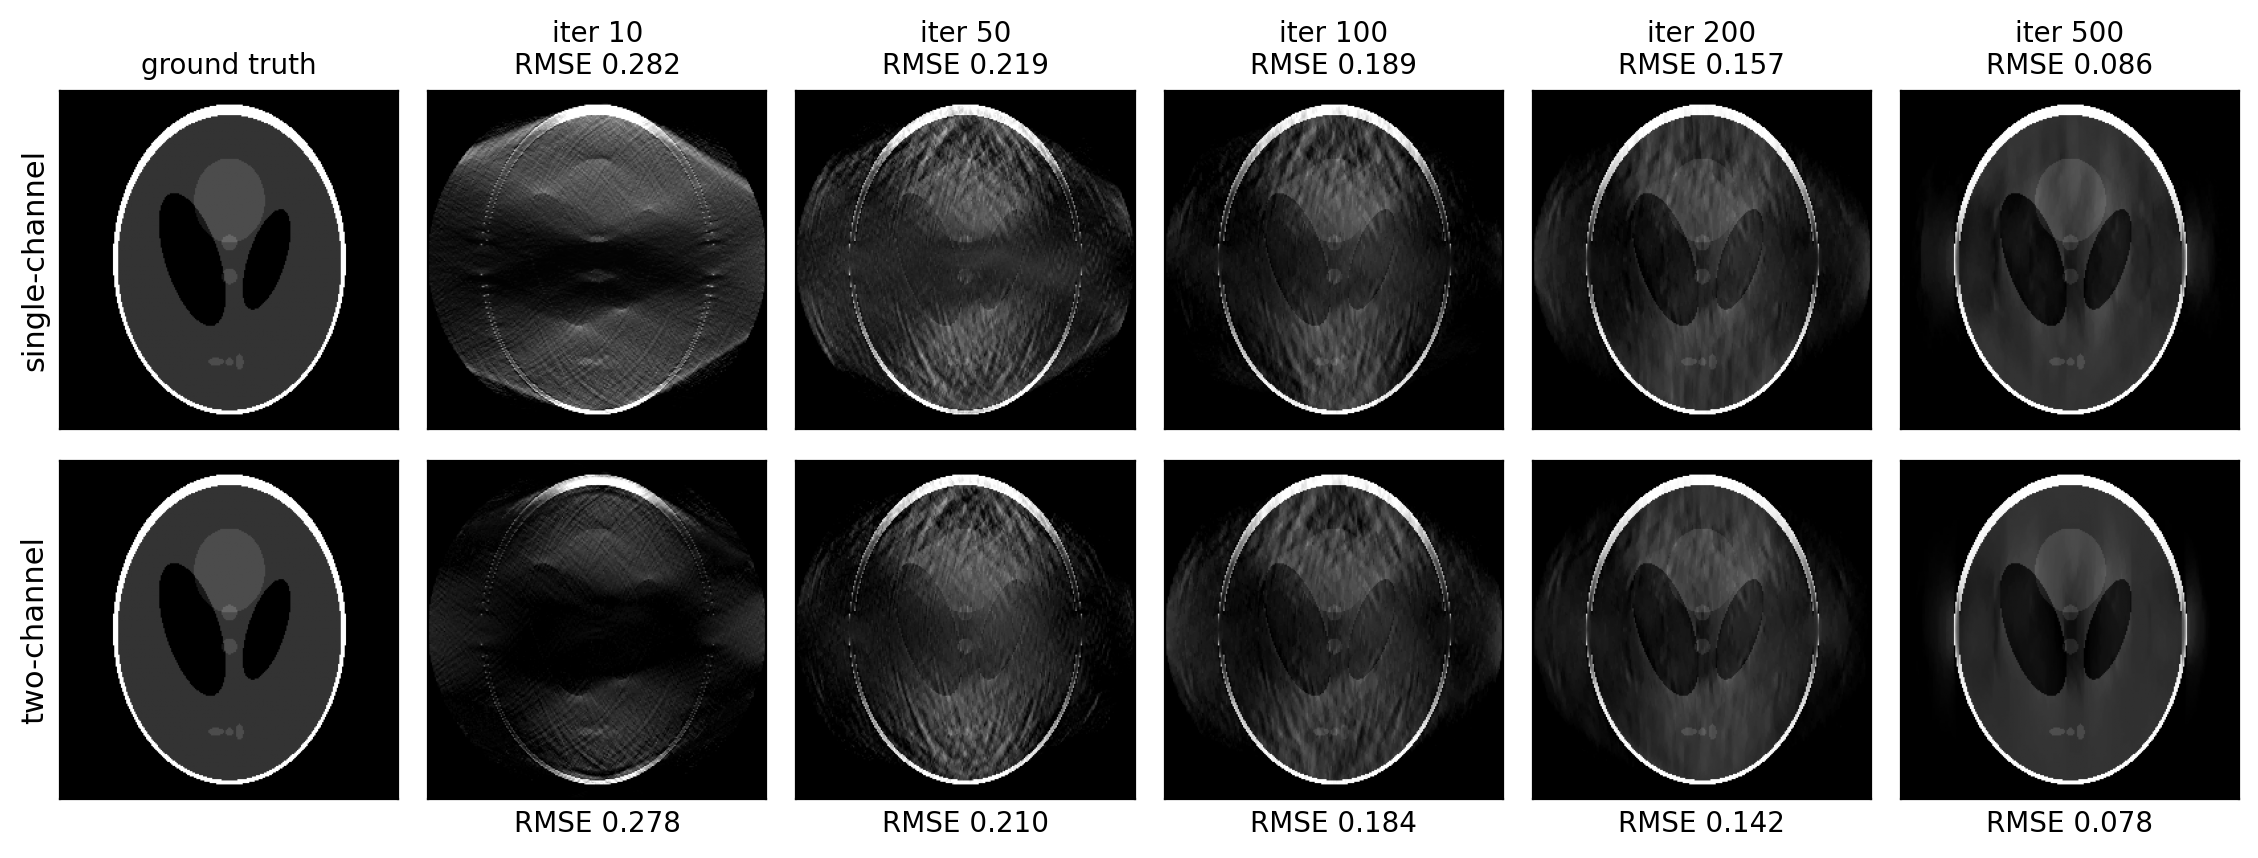
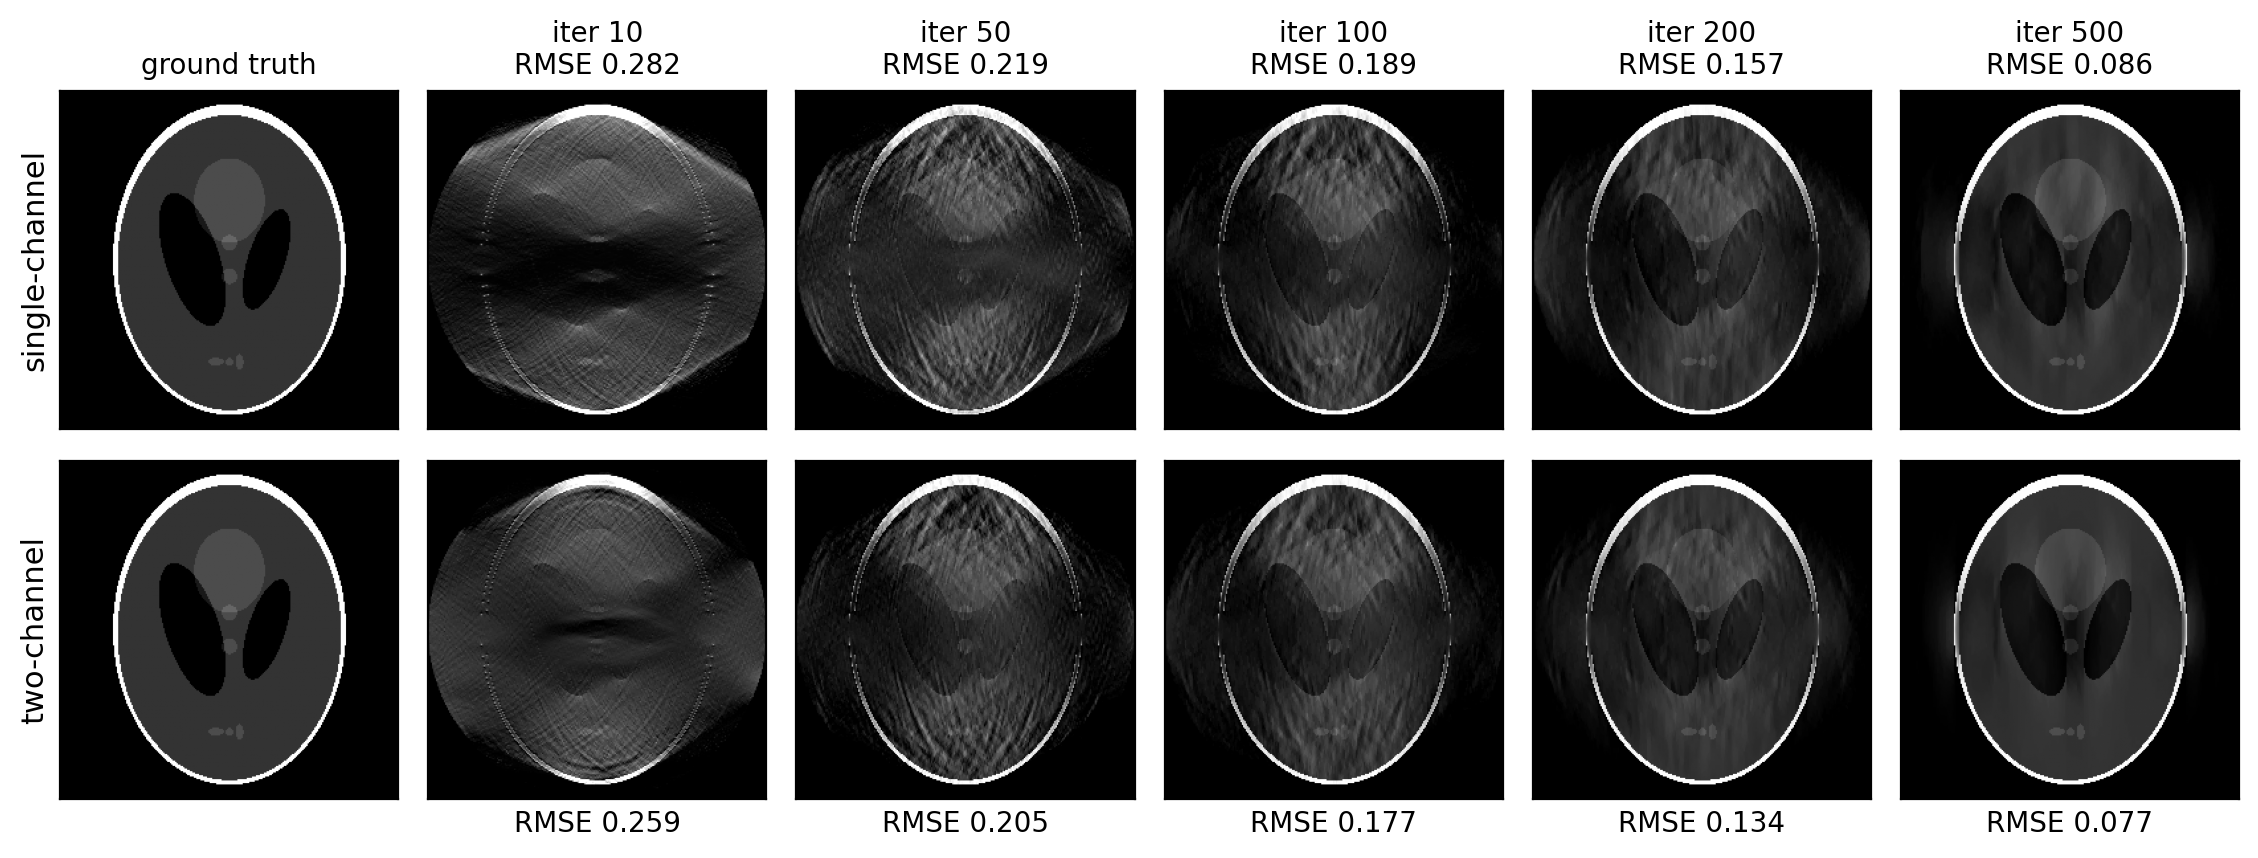
updated sl results

diff --git a/scripts/presentation_shepp_logan_3d.py b/scripts/presentation_shepp_logan_3d.py
@@ -60,8 +60,18 @@ ODD_CM  = 5.0
 ITERMAX        = 500
 SNAPSHOT_ITERS = [10, 50, 100, 200, 300, 500]
 LADDER_ITERS   = [10, 50, 100, 200, 500]
+TAG            = ""   # output filename suffix (e.g. "_arc50")
 
-CP_OVERRIDES = {"cutoffparm_lo": 3.0, "eps_lo_ratio": 0.5}
+# Two-channel config tuned for Shepp-Logan: symmetric dual steps with the
+# 3D stability handicap removed (sigma_lo_scale=1 -> norm_inflate_3d=1), so
+# two-channel gets the same primal step as single. eps_hi == single's eps.
+CP_OVERRIDES = {
+    "cutoffparm_lo":   4.0,
+    "eps_hi_ratio":    1.0,
+    "eps_lo_ratio":    1.0,
+    "sigma_lo_scale":  1.0,
+    "norm_inflate_3d": 1.0,
+}
 
 PETRI_RADIUS_CM = 9.5
 
@@ -350,7 +360,7 @@ def run():
         a = is_[it - 1]; b = it_[it - 1]
         print(f"  {it:5d}  {a:9.5f}  {b:9.5f}  {(a-b)/a*100:+7.2f}")
 
-    out_pkl = CACHE_DIR / "shepp_logan_3d_recon.pkl"
+    out_pkl = CACHE_DIR / f"shepp_logan_3d{TAG}_recon.pkl"
     with open(out_pkl, "wb") as f:
         pickle.dump({
             "phantom":          phantom,
@@ -363,27 +373,42 @@ def run():
         }, f)
     print(f"  cached {out_pkl.name}")
 
-    fig_phantom_intro(phantom, FIG_DIR / "shepp_logan_3d_phantom_intro.png")
+    fig_phantom_intro(phantom, FIG_DIR / f"shepp_logan_3d{TAG}_phantom_intro.png")
     fig_iter_ladder(phantom, snaps_s, snaps_t, LADDER_ITERS,
-                    FIG_DIR / "shepp_logan_3d_iter_ladder.png")
+                    FIG_DIR / f"shepp_logan_3d{TAG}_iter_ladder.png")
     fig_error_ladder(phantom, snaps_s, snaps_t, LADDER_ITERS,
-                     FIG_DIR / "shepp_logan_3d_error_ladder.png")
-    fig_convergence(is_, it_, FIG_DIR / "shepp_logan_3d_convergence.png",
-                    f"3D Shepp-Logan -- DBT arc=15, 25v, 432^2x96, "
-                    f"cutLo=3 eps_lo=0.5 itermax={ITERMAX}")
+                     FIG_DIR / f"shepp_logan_3d{TAG}_error_ladder.png")
+    fig_convergence(is_, it_, FIG_DIR / f"shepp_logan_3d{TAG}_convergence.png")
 
 
 def main():
+    global ARC_DEG, ITERMAX, SNAPSHOT_ITERS, LADDER_ITERS, TAG
     ap = argparse.ArgumentParser()
     ap.add_argument("--preview", action="store_true",
                     help="Build phantom and save intro fig only (no recon)")
+    ap.add_argument("--arc", type=float, default=ARC_DEG)
+    ap.add_argument("--itermax", type=int, default=ITERMAX)
+    ap.add_argument("--snaps", type=str, default=None,
+                    help="comma-separated checkpoint iters, e.g. 25,50,75,100")
+    ap.add_argument("--tag", type=str, default="",
+                    help="output filename suffix, e.g. _arc50")
     args = ap.parse_args()
+
+    ARC_DEG = args.arc
+    ITERMAX = args.itermax
+    TAG = args.tag
+    if args.snaps:
+        SNAPSHOT_ITERS = [int(x) for x in args.snaps.split(",")]
+        LADDER_ITERS = list(SNAPSHOT_ITERS)
+
     CACHE_DIR.mkdir(parents=True, exist_ok=True)
     FIG_DIR.mkdir(parents=True, exist_ok=True)
 
+    print(f"arc={ARC_DEG}, itermax={ITERMAX}, snaps={SNAPSHOT_ITERS}, tag='{TAG}'")
     if args.preview:
         phantom = build_phantom()
-        fig_phantom_intro(phantom, FIG_DIR / "shepp_logan_3d_phantom_intro.png")
+        fig_phantom_intro(phantom,
+                          FIG_DIR / f"shepp_logan_3d{TAG}_phantom_intro.png")
         return
     run()
 

diff --git a/scripts/presentation_shepp_logan_2d.py b/scripts/presentation_shepp_logan_2d.py
@@ -120,17 +120,21 @@ def load_or_run(force=False):
 
     sl = build_phantom()
 
-    # Paper-breast config (identical to the 2D breast slide):
-    cm.cutoffparm    = 4.0
-    cm.cutoffparm_lo = 8.0
-    cm.eps           = 0.001
-    cm.eps_hi        = cm.eps
-    cm.eps_lo        = 1.25 * cm.eps
+    # Two-channel config tuned for Shepp-Logan: stronger LF dual step
+    # (sigma_lo_scale = 8) accelerates low-frequency convergence on this
+    # phantom. eps_hi == single's eps for a fair high-frequency channel.
+    cm.cutoffparm     = 4.0
+    cm.cutoffparm_lo  = 8.0
+    cm.eps            = 0.001
+    cm.eps_hi         = cm.eps
+    cm.eps_lo         = 1.25 * cm.eps
+    cm.sigma_lo_scale = 8.0
     cm.RESOLUTION_PARAMS[256]["itermax"] = ITERMAX
 
-    print(f"\nRunning 256x256 Shepp-Logan with paper-breast hyperparameters")
+    print(f"\nRunning 256x256 Shepp-Logan two-channel")
     print(f"  cutoffparm_hi = {cm.cutoffparm}, cutoffparm_lo = {cm.cutoffparm_lo}")
-    print(f"  eps_hi = {cm.eps_hi}, eps_lo = {cm.eps_lo}")
+    print(f"  eps_hi = {cm.eps_hi}, eps_lo = {cm.eps_lo}, "
+          f"sigma_lo_scale = {cm.sigma_lo_scale}")
     print(f"  itermax = {ITERMAX}, snapshots at {SNAPSHOT_ITERS}")
 
     t0 = time.time()
